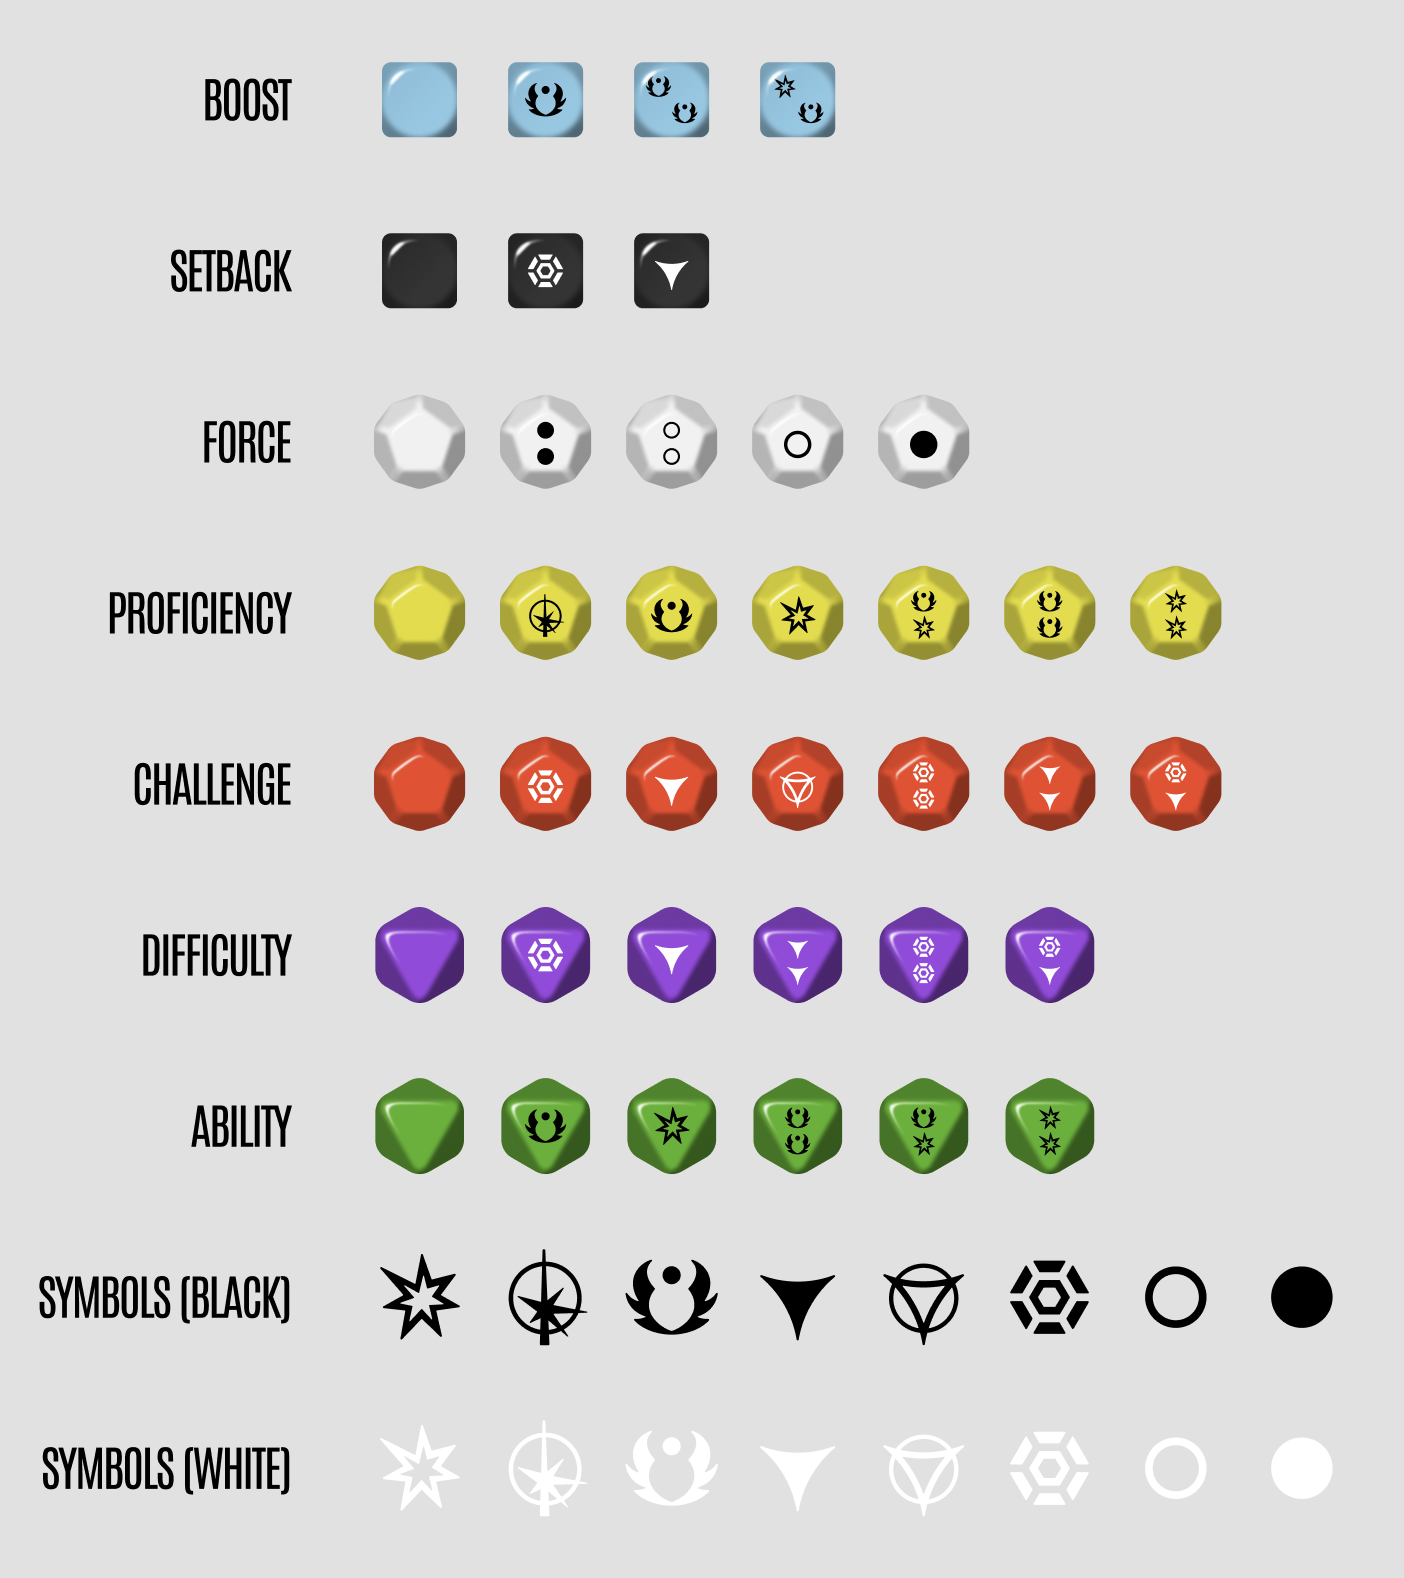
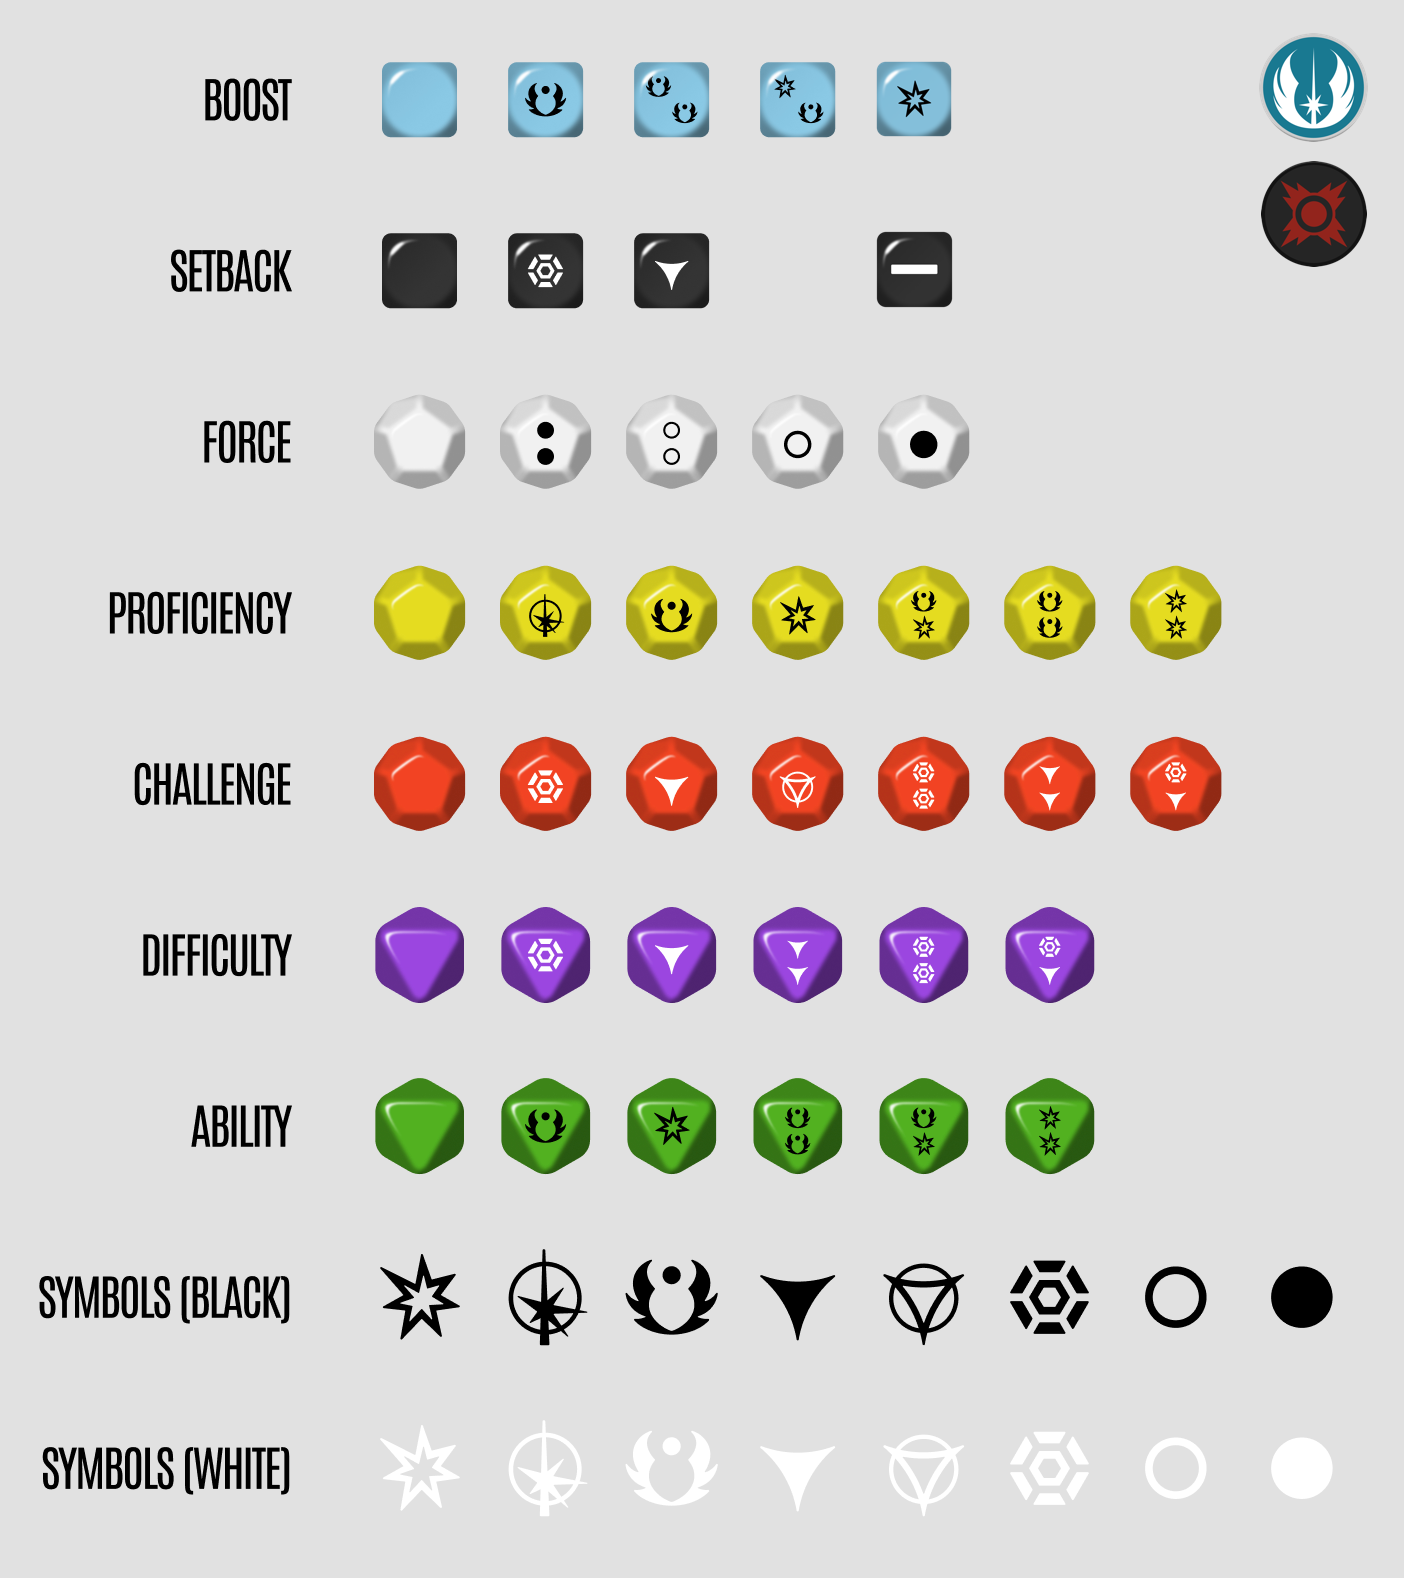
feat: add destiny points. add narrative dice gifs. add remove setback die. add missing boost success die face.

diff --git a/README.md b/README.md
@@ -10,6 +10,12 @@ This repository contains a collection of SVG and other art assets for use in Sta
 
 ![Narrative Dice](dice/narrative-dice-page.png)
 
+### Animated GIF files
+
+Useful for simulating rolling the dice
+
+![Animated gif files](dice/narrative/gifs/ability.gif)
+
 ### Numeric dice with every color from the movie logos
 
 ![Movie Colors](dice/movie-colors.png)
